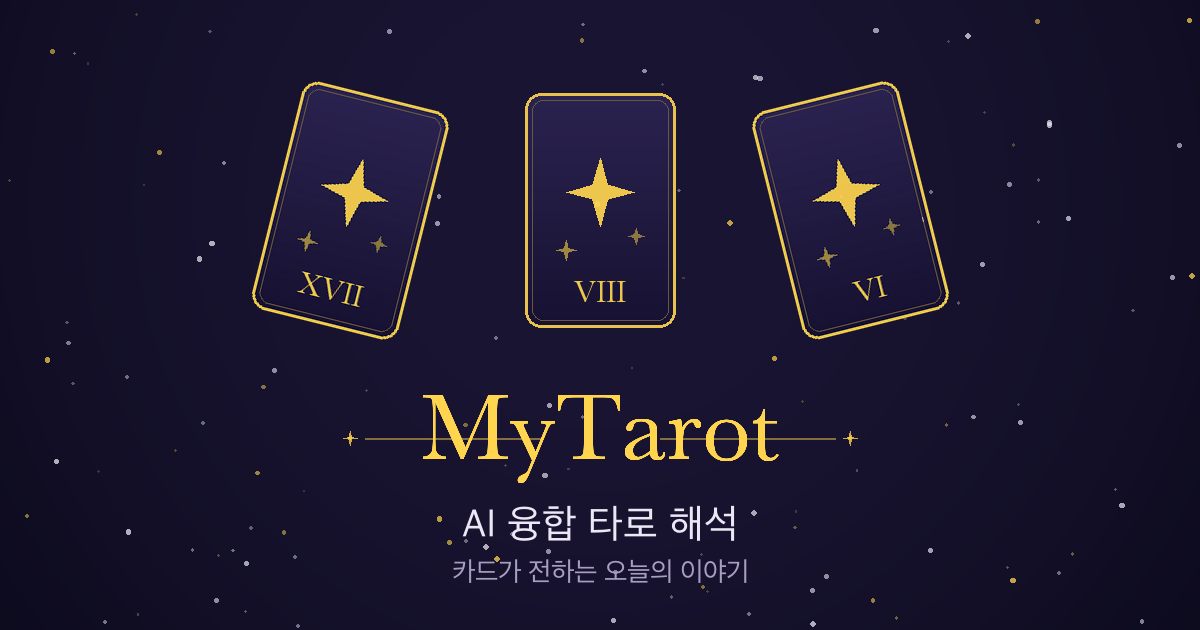
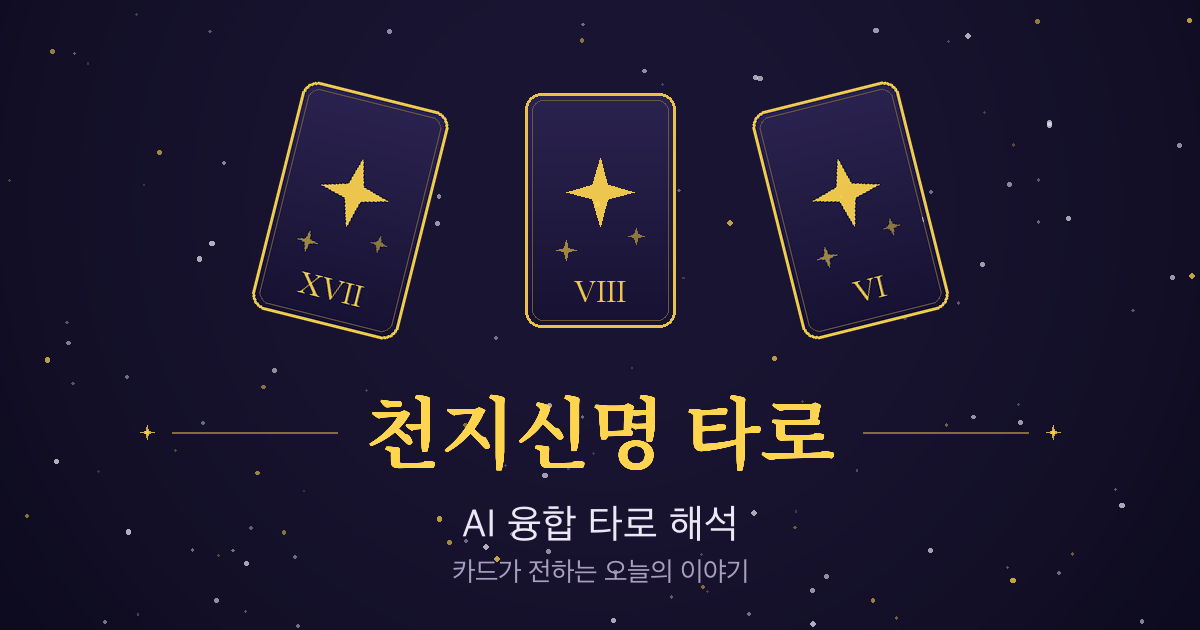
타로 미러 갱신 — 브랜드 정정(천지신명 타로) + 공유 링크 UTM 분리
미러가 브랜드 리네임(MyTarot1 의 0340dd7) 이후로 밀려 있었다.
공유 링크를 열면 "MyTarot" 이 뜨고 설치 버튼도 옛 이름이라,
숏폼("천지신명 타로")에서 넘어온 사람에게 간판이 어긋났다.

- share/index.html · privacy/index.html · share/og.png 브랜드 정정
- share 의 스토어 링크에 s/m/c 파라미터 통과 추가
  (?s=ig&m=dm&c=s1 → utm_source=ig&utm_medium=dm&utm_campaign=s1)
  없으면 기존 기본값이라 이미 배포된 링크는 그대로 동작한다.
  tarot/index.html 의 s/c 규약과 같은 체계로 맞췄다.

Changed region(s): [[0.3083, 0.6032, 0.7092, 0.754], [0.1542, 0.6635, 0.2775, 0.6937], [0.74, 0.6635, 0.8325, 0.6937]]

diff --git a/MyTarot1/privacy/index.html b/MyTarot1/privacy/index.html
@@ -3,7 +3,7 @@
 <head>
 <meta charset="utf-8">
 <meta name="viewport" content="width=device-width, initial-scale=1">
-<title>개인정보처리방침 · 마이타로 (MyTarot)</title>
+<title>개인정보처리방침 · 천지신명 타로 (Cheonji Tarot)</title>
 <style>
   :root { color-scheme: dark; }
   * { box-sizing: border-box; }
@@ -40,7 +40,7 @@
 <header>
   <h1>개인정보처리방침 · Privacy Policy</h1>
   <p class="meta">
-    <strong>앱 / App:</strong> 마이타로 (MyTarot)<br>
+    <strong>앱 / App:</strong> 천지신명 타로 (Cheonji Tarot)<br>
     <strong>패키지 / Package:</strong> <code>io.github.hwoh87.mytarot</code><br>
     <strong>시행일 / Effective date:</strong> 2026-08-06<br>
     <strong>문의 / Contact:</strong> ohy8504@gmail.com
@@ -51,7 +51,7 @@
 <h2>🇰🇷 한국어</h2>
 
 <h3>1. 개요</h3>
-<p>마이타로(MyTarot, 이하 "본 앱")는 이용자의 개인정보를 소중히 여기며 최소한의 데이터만 처리합니다. 본 앱은 <strong>회원가입·로그인·계정 생성 절차가 없으며</strong>, 이름·이메일·전화번호 등 이용자를 직접 식별하는 개인정보를 <strong>수집하지 않습니다</strong>. 본 방침은 본 앱이 어떤 데이터를 어떤 목적으로 처리하는지, 어떤 제3자 서비스를 이용하는지, 이용자가 어떤 선택권을 갖는지를 설명합니다.</p>
+<p>천지신명 타로(Cheonji Tarot, 이하 "본 앱")는 이용자의 개인정보를 소중히 여기며 최소한의 데이터만 처리합니다. 본 앱은 <strong>회원가입·로그인·계정 생성 절차가 없으며</strong>, 이름·이메일·전화번호 등 이용자를 직접 식별하는 개인정보를 <strong>수집하지 않습니다</strong>. 본 방침은 본 앱이 어떤 데이터를 어떤 목적으로 처리하는지, 어떤 제3자 서비스를 이용하는지, 이용자가 어떤 선택권을 갖는지를 설명합니다.</p>
 
 <h3>2. 수집·처리하는 정보와 목적</h3>
 
@@ -110,7 +110,7 @@
 <ul>
   <li><strong>광고 동의 다시 선택:</strong> 앱의 <em>설정 → 광고 개인정보 설정</em>에서 UMP 동의 화면을 다시 열어 맞춤형 광고 동의를 변경하거나 철회할 수 있습니다(해당 지역에 한함).</li>
   <li><strong>광고 식별자 초기화:</strong> 기기의 <em>설정 → 개인정보 보호 → 광고</em>에서 광고 식별자를 초기화하거나 맞춤형 광고를 해제할 수 있습니다.</li>
-  <li><strong>로컬 데이터 삭제:</strong> <em>설정 → 앱 → 마이타로 → 저장공간 → 데이터 삭제</em>로 저장된 설정·저널 등을 삭제할 수 있습니다.</li>
+  <li><strong>로컬 데이터 삭제:</strong> <em>설정 → 앱 → 천지신명 타로 → 저장공간 → 데이터 삭제</em>로 저장된 설정·저널 등을 삭제할 수 있습니다.</li>
   <li><strong>앱 제거:</strong> 앱을 제거하면 기기에 저장된 로컬 데이터가 함께 삭제됩니다.</li>
 </ul>
 
@@ -122,7 +122,7 @@
 
 <div class="disclaimer">
   <strong>11. 엔터테인먼트 목적 고지</strong>
-  <p>마이타로는 오락 및 자기 성찰을 위한 목적으로만 제공됩니다. 카드 해석과 AI가 생성한 문구는 재미를 위한 것으로, 의학적·법률적·재정적·심리적 조언이나 미래에 대한 사실적 예측이 아닙니다. 어떠한 결정도 본 앱의 결과에 근거하여 내리지 마시고, 전문적 판단이 필요한 사안은 반드시 해당 분야 전문가와 상담하십시오. 만 19세 이상 성인의 이용을 권장합니다.</p>
+  <p>천지신명 타로는 오락 및 자기 성찰을 위한 목적으로만 제공됩니다. 카드 해석과 AI가 생성한 문구는 재미를 위한 것으로, 의학적·법률적·재정적·심리적 조언이나 미래에 대한 사실적 예측이 아닙니다. 어떠한 결정도 본 앱의 결과에 근거하여 내리지 마시고, 전문적 판단이 필요한 사안은 반드시 해당 분야 전문가와 상담하십시오. 만 19세 이상 성인의 이용을 권장합니다.</p>
 </div>
 
 <hr class="lang-sep">
@@ -131,7 +131,7 @@
 <h2>🇬🇧 English</h2>
 
 <h3>1. Overview</h3>
-<p>MyTarot ("마이타로", the "App") respects your privacy and processes only the minimum necessary data. The App has <strong>no user accounts, no login, and no sign-up</strong>, and it does <strong>not collect</strong> directly identifying personal information such as your name, email address, or phone number. This policy explains what data the App processes and why, which third-party services it uses, and the choices available to you.</p>
+<p>Cheonji Tarot ("천지신명 타로", the "App") respects your privacy and processes only the minimum necessary data. The App has <strong>no user accounts, no login, and no sign-up</strong>, and it does <strong>not collect</strong> directly identifying personal information such as your name, email address, or phone number. This policy explains what data the App processes and why, which third-party services it uses, and the choices available to you.</p>
 
 <h3>2. Information We Process and Why</h3>
 
@@ -189,7 +189,7 @@
 <ul>
   <li><strong>Review your ads consent:</strong> Open <em>Settings → Ad privacy settings</em> inside the App to bring back the UMP consent form and change or withdraw your personalized-ads consent (where applicable in your region).</li>
   <li><strong>Reset your Advertising ID:</strong> Reset your Advertising ID or opt out of personalized ads via your device's <em>Settings → Privacy → Ads</em>.</li>
-  <li><strong>Delete local data:</strong> Clear stored settings, journal, and other local data via <em>Settings → Apps → 마이타로 (MyTarot) → Storage → Clear data</em>.</li>
+  <li><strong>Delete local data:</strong> Clear stored settings, journal, and other local data via <em>Settings → Apps → 천지신명 타로 (Cheonji Tarot) → Storage → Clear data</em>.</li>
   <li><strong>Uninstall:</strong> Uninstalling the App removes the local data stored on your device.</li>
 </ul>
 
@@ -201,7 +201,7 @@
 
 <div class="disclaimer">
   <strong>11. Entertainment-Only Disclaimer</strong>
-  <p>MyTarot is provided for entertainment and self-reflection purposes only. Card interpretations and AI-generated text are for enjoyment and do not constitute medical, legal, financial, or psychological advice, nor any factual prediction of the future. Do not make any decision based on the App's output; for matters requiring professional judgment, always consult a qualified expert. Intended for adult users (19+).</p>
+  <p>Cheonji Tarot is provided for entertainment and self-reflection purposes only. Card interpretations and AI-generated text are for enjoyment and do not constitute medical, legal, financial, or psychological advice, nor any factual prediction of the future. Do not make any decision based on the App's output; for matters requiring professional judgment, always consult a qualified expert. Intended for adult users (19+).</p>
 </div>
 
 </div>

diff --git a/MyTarot1/share/index.html b/MyTarot1/share/index.html
@@ -3,18 +3,18 @@
 <head>
 <meta charset="utf-8">
 <meta name="viewport" content="width=device-width, initial-scale=1">
-<title>MyTarot — AI 융합해석 결과</title>
-<meta name="description" content="MyTarot 앱으로 뽑은 타로 리딩의 AI 융합해석 결과예요. 카드별 의미를 보고, 전체 융합해석은 앱에서 확인하세요.">
-<meta property="og:title" content="🔮 MyTarot AI 융합해석 결과">
+<title>천지신명 타로 — AI 융합해석 결과</title>
+<meta name="description" content="천지신명 타로 앱으로 뽑은 타로 리딩의 AI 융합해석 결과예요. 카드별 의미를 보고, 전체 융합해석은 앱에서 확인하세요.">
+<meta property="og:title" content="🔮 천지신명 타로 AI 융합해석 결과">
 <meta property="og:description" content="타로 카드 리딩의 AI 융합해석 — 카드별 키워드와 해석을 확인해 보세요.">
 <meta property="og:type" content="website">
 <meta property="og:url" content="https://hwoh87.github.io/MyTarot1/share/">
 <meta property="og:image" content="https://hwoh87.github.io/MyTarot1/share/og.png">
 <meta property="og:image:width" content="1200">
 <meta property="og:image:height" content="630">
-<meta property="og:image:alt" content="MyTarot — AI 융합 타로 해석">
+<meta property="og:image:alt" content="천지신명 타로 — AI 융합 타로 해석">
 <meta name="twitter:card" content="summary_large_image">
-<meta name="twitter:title" content="🔮 MyTarot AI 융합해석 결과">
+<meta name="twitter:title" content="🔮 천지신명 타로 AI 융합해석 결과">
 <meta name="twitter:description" content="타로 카드 리딩의 AI 융합해석 — 카드별 키워드와 해석을 확인해 보세요.">
 <meta name="twitter:image" content="https://hwoh87.github.io/MyTarot1/share/og.png">
 <style>
@@ -117,7 +117,7 @@
 <div class="wrap">
   <header>
     <div class="logo">🔮</div>
-    <h1>MyTarot AI 융합해석</h1>
+    <h1>천지신명 타로 AI 융합해석</h1>
     <div class="sub" id="subtitle">친구가 공유한 타로 리딩 결과예요</div>
   </header>
   <main id="content"></main>
@@ -128,7 +128,7 @@
   <div class="install-inner">
     <div class="install-icon">🔮</div>
     <div class="install-text">
-      <b>MyTarot — 타로 &amp; AI 융합해석</b>
+      <b>천지신명 타로 — 타로 &amp; AI 융합해석</b>
       <span>내 카드로 직접 리딩하고 전체 해석 받기</span>
     </div>
     <a class="install-btn" id="installBtn" href="#">설치</a>
@@ -150,8 +150,18 @@ const isAndroid = /android/i.test(navigator.userAgent);
 //  · utm_* → Play 콘솔 '획득' 리포트에 공유 유입이 그대로 집계된다(백엔드 불요).
 //  · r=<토큰> → 설치 후 첫 실행에서 InstallReferrer API 로 앱이 읽어, 공유받은
 //    리딩으로 곧장 딥링크한다(설치 경계를 넘는 deferred deep link).
+// 유입 출처는 URL 의 s/m/c 로 덮어쓸 수 있다(없으면 앱 공유 기본값 — 기존 링크와 호환).
+//   ?r=<토큰>&s=ig&m=dm&c=s1  →  utm_source=ig&utm_medium=dm&utm_campaign=s1
+// 숏폼 DM·댓글·프로필 링크처럼 경로가 다른 유입을 Play 콘솔에서 따로 본다.
+function utmTag(name, fallback) {
+  var v = (new URLSearchParams(location.search).get(name) || "").replace(/[^A-Za-z0-9_-]/g, "");
+  return v ? v.slice(0, 40) : fallback;
+}
+
 function storeUrl(token) {
-  var ref = "utm_source=share&utm_medium=web&utm_campaign=reading";
+  var ref = "utm_source=" + utmTag("s", "share") +
+    "&utm_medium=" + utmTag("m", "web") +
+    "&utm_campaign=" + utmTag("c", "reading");
   if (token) ref += "&r=" + token;
   return STORE_URL + "&referrer=" + encodeURIComponent(ref);
 }
@@ -206,9 +216,9 @@ function render() {
     content.innerHTML =
       '<div class="error">' +
       "<p>공유된 리딩을 찾을 수 없어요.</p>" +
-      "<p style=\"margin-top:8px\">MyTarot 앱에서 직접 카드를 뽑고<br>AI 융합해석을 받아보세요.</p>" +
+      "<p style=\"margin-top:8px\">천지신명 타로 앱에서 직접 카드를 뽑고<br>AI 융합해석을 받아보세요.</p>" +
       "</div>" +
-      '<a class="cta" href="' + esc(storeUrl(null)) + '">📲 MyTarot 설치하기</a>';
+      '<a class="cta" href="' + esc(storeUrl(null)) + '">📲 천지신명 타로 설치하기</a>';
     return;
   }
 
@@ -244,7 +254,7 @@ function render() {
   // 융합해석(카드 연결·페르소나 조언)은 앱 전용 — 설치 전환 포인트
   html +=
     '<div class="locked"><div class="lock">🔒</div>' +
-    "<p><b>카드 사이의 연결</b>과 <b>AI 페르소나의 융합해석 · 조언</b>은<br>MyTarot 앱에서 확인할 수 있어요.</p>" +
+    "<p><b>카드 사이의 연결</b>과 <b>AI 페르소나의 융합해석 · 조언</b>은<br>천지신명 타로 앱에서 확인할 수 있어요.</p>" +
     "</div>" +
     '<a class="cta" id="openApp" href="' +
     (isAndroid ? esc(appLink(token)) : esc(storeUrl(token))) +
